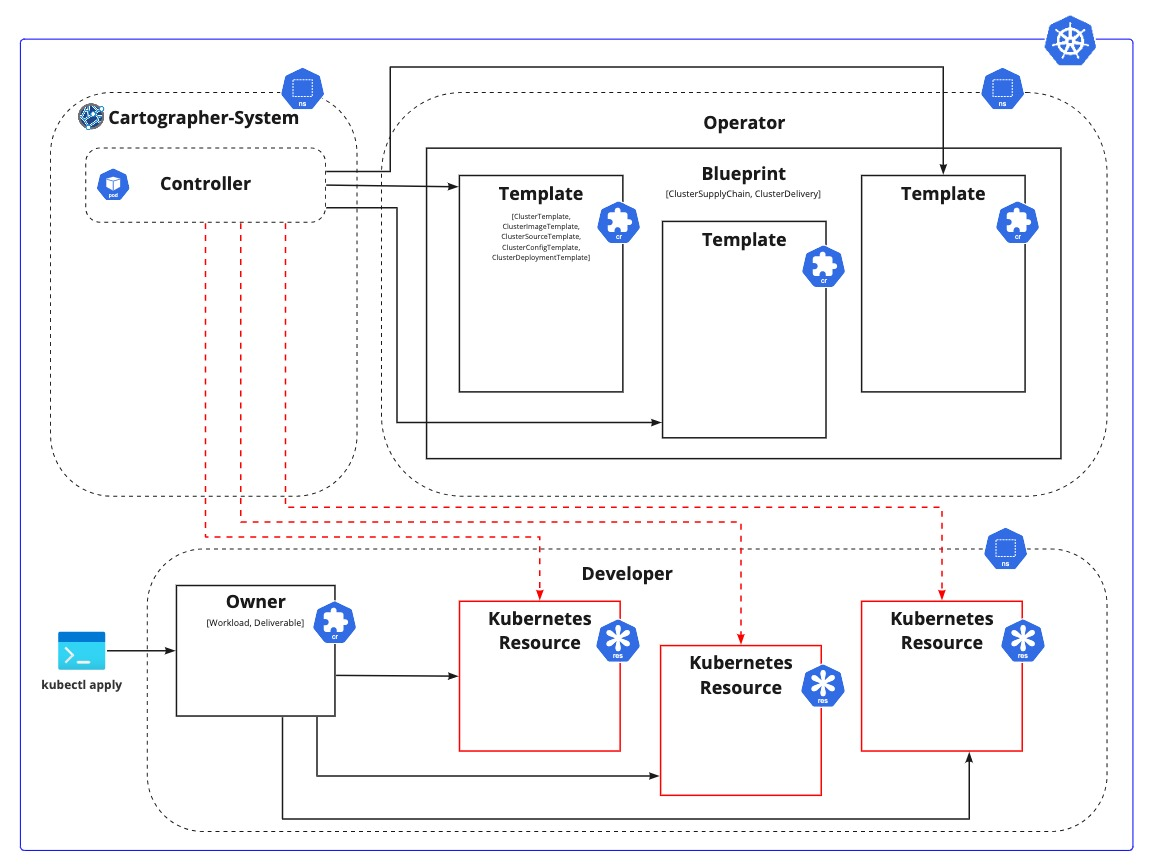
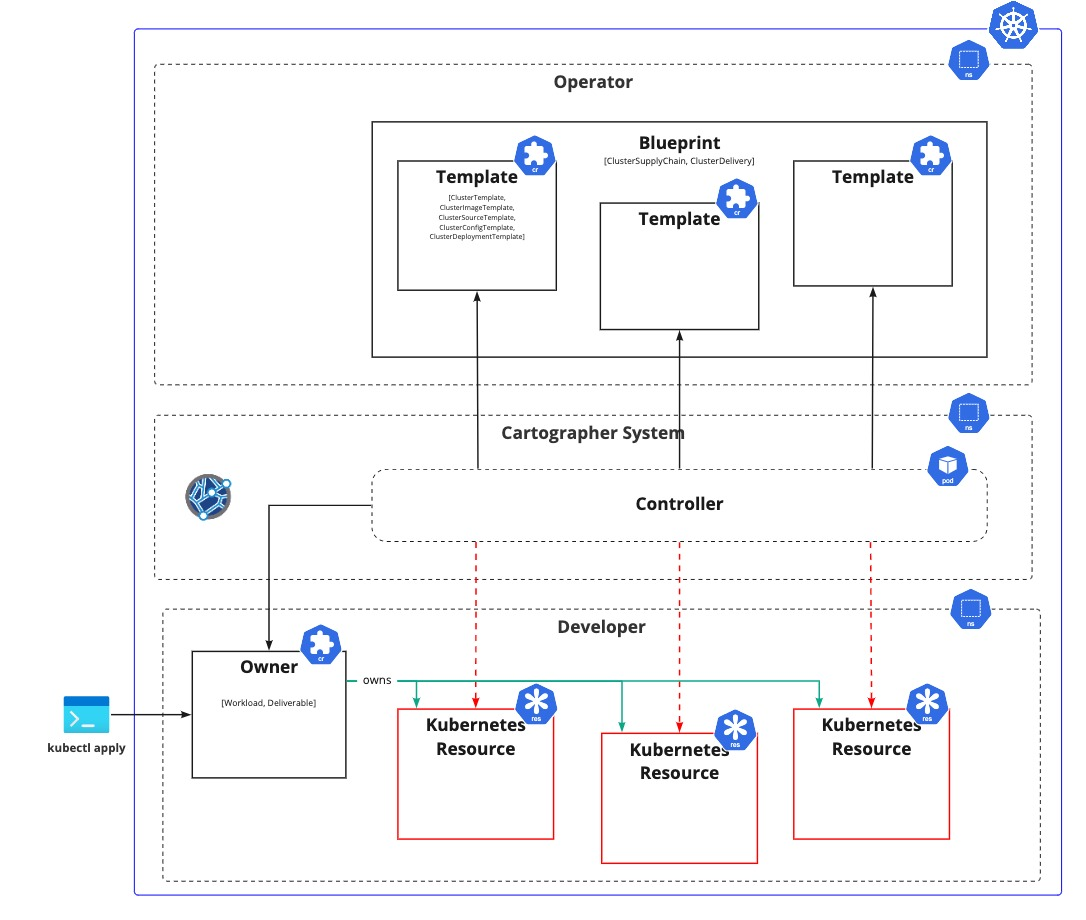
Update images

diff --git a/site/content/docs/development/architecture.md b/site/content/docs/development/architecture.md
@@ -77,7 +77,7 @@ Templates are typed by the output they produce.
 
 ### Types of blueprints
 
-<!-- insert image of simplified supply chain into delivery -->
+![Gitops](../img/gitops.jpg)
 
 | Blueprint    | Owner | Valid Templates |
 | ----------- | ----------- | ----------- |
@@ -101,4 +101,5 @@ owner's labels.
 
 ### Complete Supply Chain and Delivery Example
 
-<!-- insert very specific diagram with logos -->
+![ClusterSupplyChain](../img/supplychain.jpg)
+![ClusterDelivery](../img/delivery.jpg)
